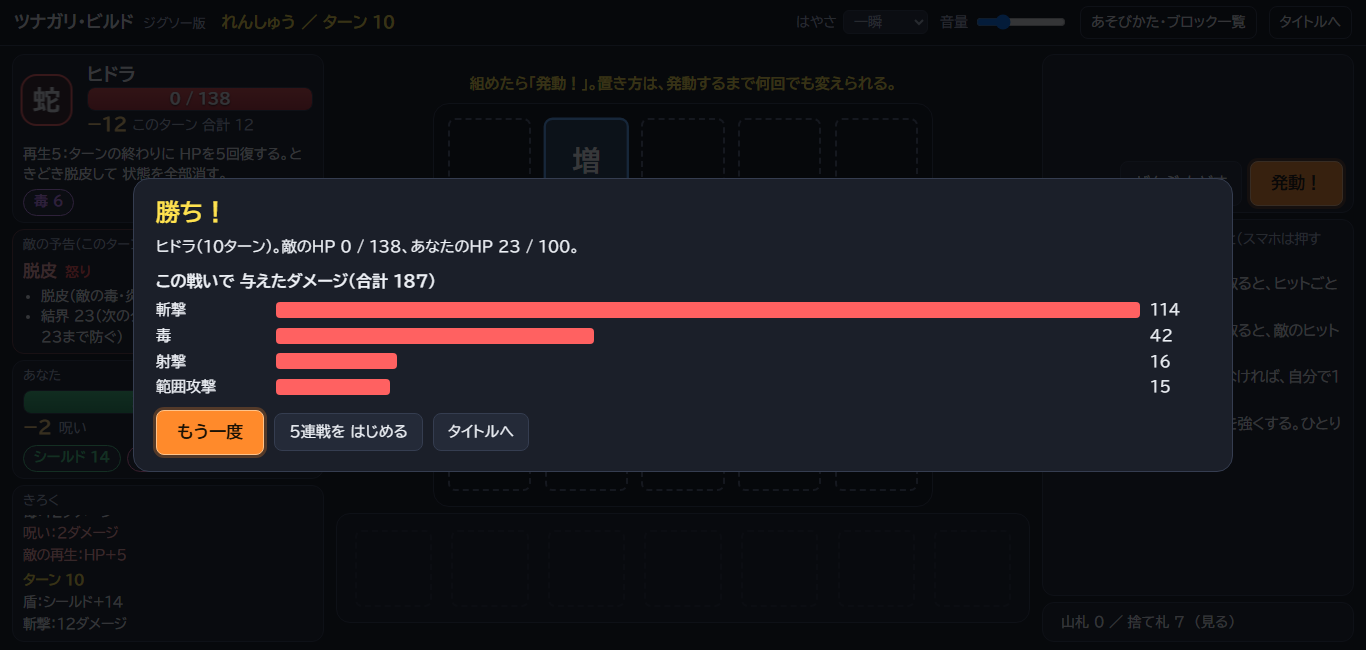
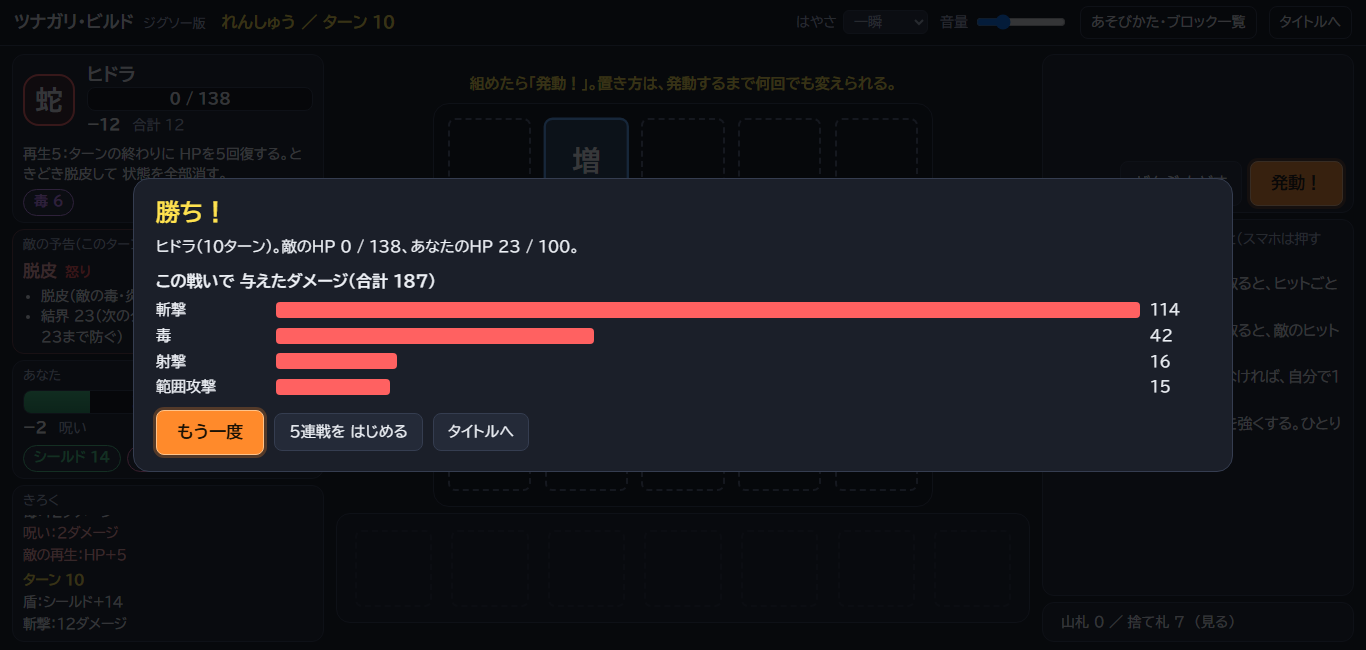
せまい窓（1024幅）で盤面が小さくなりすぎるのを直す。負けの画面の「さいごの敵の行動」が出ないのを直す。検査に 1024×768 を足す
- style.css：901〜1250px は左右の列を細くして、マスを約70pxに保つ
- ui.js：さいごの敵の行動を、発動のたびに覚える（前は自動プレイのときだけ）。左の列で切れる字を短くする
- check.js：大きさに pc1024 を足す（45場面）。REPORT の数字を合わせる

Changed region(s): [[0.0, 0.1231, 0.246, 0.2154], [0.0615, 0.5846, 0.123, 0.6462]]

diff --git a/ui.js b/ui.js
@@ -389,9 +389,9 @@
       case 'solo': fxCell(e.cell); return 110;
       case 'hit': {
         const nm = e.kind === 'chase' ? '追撃' : nameAt(e.cell);
-        if (e.dodged) { slot('#enemy-dmg', 'よけられた', `このターン 合計 ${G.turnSum.e}`); log('lp', `${nm}：よけられた`); sfx('bad'); return 200; }
+        if (e.dodged) { slot('#enemy-dmg', 'よけられた', `合計 ${G.turnSum.e}`); log('lp', `${nm}：よけられた`); sfx('bad'); return 200; }
         G.turnSum.e += e.dmg;
-        slot('#enemy-dmg', `−${e.dmg}`, `このターン 合計 ${G.turnSum.e}`);
+        slot('#enemy-dmg', `−${e.dmg}`, `合計 ${G.turnSum.e}`);
         const ex = []; if (e.charge) ex.push(`たまり+${e.charge}`); if (e.fire) ex.push(`炎+${e.fire}`); if (e.armorCut) ex.push(`装甲−${e.armorCut}`); if (e.guardCut) ex.push(`結界−${e.guardCut}`); if (e.heal) ex.push(`HP+${e.heal}`);
         log('lp', `${nm}：${e.dmg}ダメージ` + (ex.length ? `（${ex.join('、')}）` : ''));
         const pt2 = $('#enemy-portrait'); pt2.classList.remove('fx-hit'); void pt2.offsetWidth; pt2.classList.add('fx-hit');
@@ -436,7 +436,7 @@
   async function doEnd() {
     if (G.busy || !G.s || G.s.phase !== 'place') return;
     const s = G.s, f = R.forecast(s), turn = s.turn, e0 = s.stats.total, p0 = s.stats.taken;
-    G.sel = null; G.pre = R.cloneState(s); G.preD = R.derive(G.pre); G.gone = {};
+    G.sel = null; G.pre = R.cloneState(s); G.preD = R.derive(G.pre); G.gone = {}; G.lastIntent = s.intent.label; // 負けの画面に出す「さいごの敵の行動」
     const ev = R.endTurn(s);
     G.busy = true; G.turnSum = { e: 0, p: 0 }; G.view = { eh: G.pre.e.hp, ph: G.pre.p.hp, sh: G.pre.p.shield, es: [G.pre.e.poison, G.pre.e.fire, G.pre.e.ice, G.pre.e.shock, G.pre.e.guard, G.pre.e.frozen], pc: G.pre.p.curse, ch: G.pre.p.charge };
     renderAll();
@@ -649,7 +649,6 @@
     while (guard++ < 400) {
       const s = G.s;
       if (s.phase === 'place') {
-        G.lastIntent = s.intent.label;
         const L = Bot.search(s, { style });
         R.clearBoard(s); renderAll();
         for (let cell = 0; cell < R.N; cell++) {

diff --git a/check.js b/check.js
@@ -48,12 +48,12 @@ async function main() {
   const pk = read(probe.stdout) || { w: 1000, h: 800 };
   const DW = 1000 - pk.w, DH = 800 - pk.h;
   console.log(`窓と中身の差: 幅${DW} 高さ${DH}`);
-  const SIZES = [['pc1366', 1366, 650, true], ['pc1920', 1920, 910, true], ['phone', 375, 812, false], ['pc1366x768', 1366, 768, true]];
+  const SIZES = [['pc1366', 1366, 650, true], ['pc1920', 1920, 910, true], ['phone', 375, 812, false], ['pc1366x768', 1366, 768, true], ['pc1024', 1024, 768, true]]; // pc1024 … せまい窓（アプリ内ブラウザーの大きさ）
   const ENEMIES = ['golem', 'hunter', 'hydra', 'mage', 'berserk'];
   const cases = [];
   const add = (sn, w, h, pc, name, q, o) => cases.push(Object.assign({ name: `${sn} ${name}`, sn, w, h, pc, q }, o || {}));
   for (const [sn, w, h, pc] of SIZES) {
-    const main = sn === 'pc1366', lite = sn === 'pc1366x768';
+    const main = sn === 'pc1366', lite = sn === 'pc1366x768' || sn === 'pc1024';
     add(sn, w, h, pc, 'タイトル', 'auto=1&screen=title&seed=11', { stop: true, shot: 'title' });
     add(sn, w, h, pc, '5連戦 種11 通し', 'auto=1&speed=0&seed=11', { play: true, shot: 'result' });
     add(sn, w, h, pc, '4ターン目で止める（組んだ盤面）', 'auto=1&speed=0&seed=11&stop=4', { stop: true, shot: 'board' });

diff --git a/style.css b/style.css
@@ -245,6 +245,16 @@ a { color: inherit; }
   .pc .ord { min-width: 16px; height: 16px; font-size: 11px; padding: 0 3px; top: 8%; right: 8%; }
   .mini { width: 54px; height: 54px; } .mini .pc { --ps: 54px; }
 }
+/* せまいパソコンの窓（901〜1250px）：左右の列を細くして、盤面を大きく保つ */
+@media (min-width: 901px) and (max-width: 1250px) {
+  :root { --cell: min(calc((100vh - 170px) / 5), calc((100vw - 530px) / 7), 150px); }
+  #battle { grid-template-columns: minmax(210px, 1fr) auto minmax(210px, 1fr); gap: 8px; padding: 8px; }
+  #top { gap: 10px; padding: 0 10px; }
+  #logo .sub { display: none; }
+  .tool input[type=range] { width: 60px; }
+  #title-rules { grid-template-columns: repeat(2, minmax(0, 1fr)); }
+  .ecard .et { font-size: 13px; }
+}
 @media (min-width: 901px) and (max-height: 720px) {
   .panel { padding: 6px 10px; } #left, #right { gap: 6px; }
   #enemy-portrait { width: 52px; height: 52px; font-size: 27px; }

diff --git a/REPORT.md b/REPORT.md
@@ -7,7 +7,7 @@
 ## 0. ひとことで
 - **遊べる試作ができた。** 毎ターン7個引いたブロックを、ジグソーパズルのように盤面に組む。凸が凹に はまると、能力が わたる。5連戦で、勝つとブロックがもらえる。
 - 公開URL：**https://usouso.github.io/tunagari/** （デスクトップの「ツナガリ・ビルド」で開く。前と同じURL）。前の版は https://usouso.github.io/tunagari/v1/ （タイトルにも入口あり）。@@PUBLISH
-- ルールのテスト 286件、画面の機械検査 40件は全部合格。自分の手でドラッグ・クリックして、1戦目を最後まで勝ち、ごほうび → 2戦目の1ターン目まで通した（6-3）。
+- ルールのテスト 286件、画面の機械検査 45件は全部合格。自分の手でドラッグ・クリックして、1戦目を最後まで勝ち、ごほうび → 2戦目の1ターン目まで通した（6-3）。
 - **開発完了ではない。** 人が遊んで「楽しいか・迷うか・テンポはどうか」は、まだ誰も確かめていない。独立レビュー（Codex）は @@REVIEW。
 - 率直な弱点（8章）：①**回せない形のせいで、強化ブロックの3割が「はまる所がない」ターンになる**。②強化のうち6種類（貫通・拡散・持続強化・効果変換・再発動・反射）は、効く相手がせまくて、ボットは ほとんど はめない。③1ターンに はまる数は平均2.2個で、まだ少ないかもしれない。④5連戦は、ごほうびを ていねいに選ばないとクリアできない強さ（でたらめに選ぶボットは 0〜4%）。
 
@@ -132,11 +132,11 @@
 - ボットの通し20周で、**予想と結果のずれ 0件**、札の数が変わらない、同じ種なら同じ結果。
 
 ### 6-2. 画面の機械検査（`node check.js` → `evidence/check-screen.txt`）
-- **40 / 40 合格、終了コード 0。** くらべた回数：戦い 56、ターン 318（予想＝結果、演出の合計＝計算、HPの表示）、盤面の絵 332回、「はまるマスの数字」2326回。**ずれ 0**。文字の重なり・はみ出し・切れ 0。写真 37枚（`screenshots/`）。
-- ヘッドレスの Chrome で、ボットが画面の操作と同じ関数を通して5連戦を遊ぶ。大きさ：1366×650、1920×910、1366×768（ページのスクロール 0）、スマホ 375×812（たて並び。ページのスクロールあり）。
+- **45 / 45 合格、終了コード 0。** くらべた回数：戦い 62、ターン 348（予想＝結果、演出の合計＝計算、HPの表示）、盤面の絵 364回、「はまるマスの数字」2550回。**ずれ 0**。文字の重なり・はみ出し・切れ 0。写真 42枚（`screenshots/`）。
+- ヘッドレスの Chrome で、ボットが画面の操作と同じ関数を通して5連戦を遊ぶ。大きさ：1366×650、1920×910、1366×768、1024×768（どれもページのスクロール 0）、スマホ 375×812（たて並び。ページのスクロールあり）。
 - 失敗にする条件：ページのエラー／決着まで行かない／はまっている凸・効く効かないの印・発動の番号・札の上の数字・予想の数字・HP の表示が計算とちがう／予想と結果のずれ／演出の合計と計算のずれ／「はまるマスの数字」と置いたあとの本当の数のずれ／文字の重なり・はみ出し・切れ／パソコン寸法でのページのスクロール。
 - 場面：タイトル、5連戦の通し、4ターン目の盤面、ブロックをえらんだ画面、ごほうび、はずす、あそびかた、山札を見る、負けの画面、れんしゅう5体、`?rot=1` の通し。
-- 検査で見つけて直したもの：スマホ幅で「封印」の印と札の数字が重なる → 印があるときは字を上に寄せた。レベルの「Lv2」が字に重なりそう → 字をやめて点にした。「感電！ 次のターン1個多く引く」「防いだ：凍結−5、堅牢−4…」が左の列で切れる → 短くした（内訳は「きろく」に出る）。
+- 検査で見つけて直したもの：スマホ幅で「封印」の印と札の数字が重なる → 印があるときは字を上に寄せた。レベルの「Lv2」が字に重なりそう → 字をやめて点にした。「感電！ 次のターン1個多く引く」「防いだ：凍結−5、堅牢−4…」が左の列で切れる → 短くした（内訳は「きろく」に出る）。**せまい窓（1024×768。アプリ内ブラウザーの大きさ）で、盤面のマスが47pxまで小さくなっていた** → 左右の列を細くして70pxにし、検査する大きさに 1024×768 を足した（これは写真ではなく、アプリ内ブラウザーで開いて見つけた）。
 
 ### 6-3. 通常のクリック・ドラッグでの確認（自動モードとは別。アプリ内ブラウザー 1366×650、127.0.0.1:8437）
 - **通した道すじ：** タイトル → 「5連戦を はじめる」をクリック → 1戦目（呪いの術師）を**7ターン、全部ドラッグかクリックで置いて「発動！」** → 勝ち → ごほうび1（増幅のレベルアップ）をクリック → ごほうび2（範囲攻撃）をクリック → 「はずす」画面で射撃をクリック → 2戦目（ヒドラ）が、HP100・デッキ14個・増幅Lv2 で始まった。
@@ -227,7 +227,7 @@
 6. **5連戦が むずかしい。** ていねいに選ぶボットで 67%、でたらめに選ぶと 0〜4%。4〜5戦目で急に きつくなる（4戦目まで 88%、5戦目で 67%）。初めての人は、たぶん3〜4戦目で負ける。負けたとき「何が足りなかったか」は、与えたダメージの内訳と、最後の敵の行動しか出していない。
 7. **ごほうびの「レベルアップ」が強い。** ボットは新しいブロックより、斬撃・盾・増幅のレベルアップを よく選ぶ。「新しい組み合わせを見つける」より「数字を上げる」が答えになるおそれ（未測定。ボットが何を選んだかの集計は、まだ作っていない）。
 8. **見守る時間が短い。** 発動は3〜5秒で終わる。「組んだものが動くのを見る」気持ちよさは、まだ弱い（はまった凸が光る、ブロックが はねる、数字が出る、だけ）。音も最小限。
-9. **スマホは「遊べる」止まり。** 盤面と手札は1画面に収まるが、説明と予想は下にあって、スクロールが要る。指でのドラッグは確かめていない。
+9. **スマホは「遊べる」止まり。** 開いたときは、敵と予告で画面の半分が うまり、手札は下にかくれる。少し下にスクロールすれば、盤面と手札は1画面に収まる。説明と予想は、さらに下。指でのドラッグは確かめていない。
 10. **敵の「次の次」の行動は見えない。** 再発動（次のターンも引く）や蓄積（ためる）は、先が読めないと使いにくい。敵の行動は決まった順なので、覚えれば読めるが、画面には出していない。
 
 ## 9. 確かめられなかったこと
